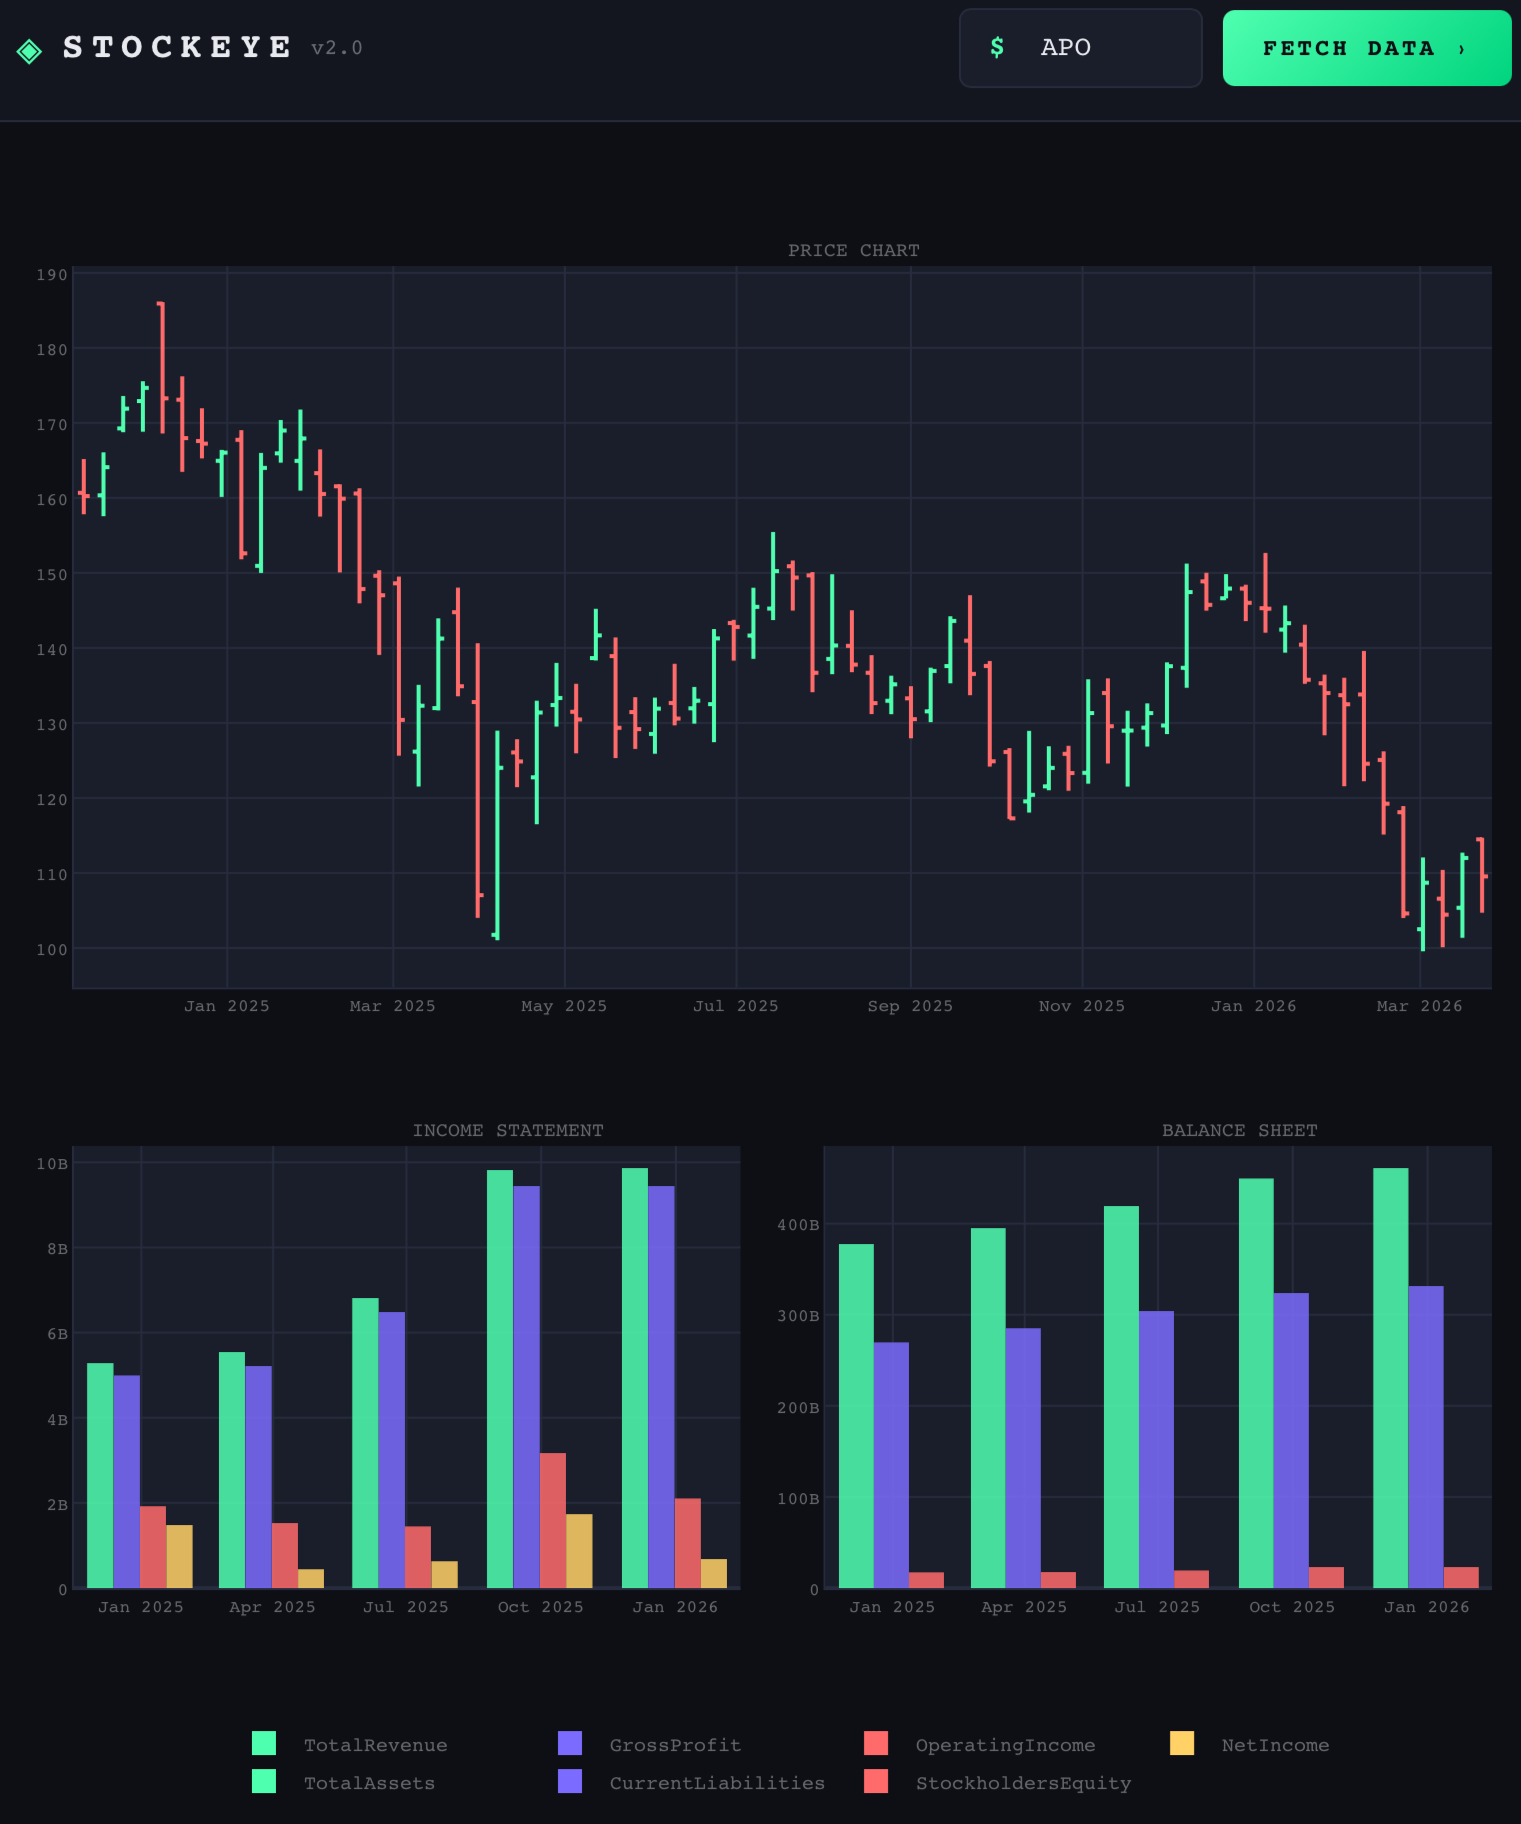
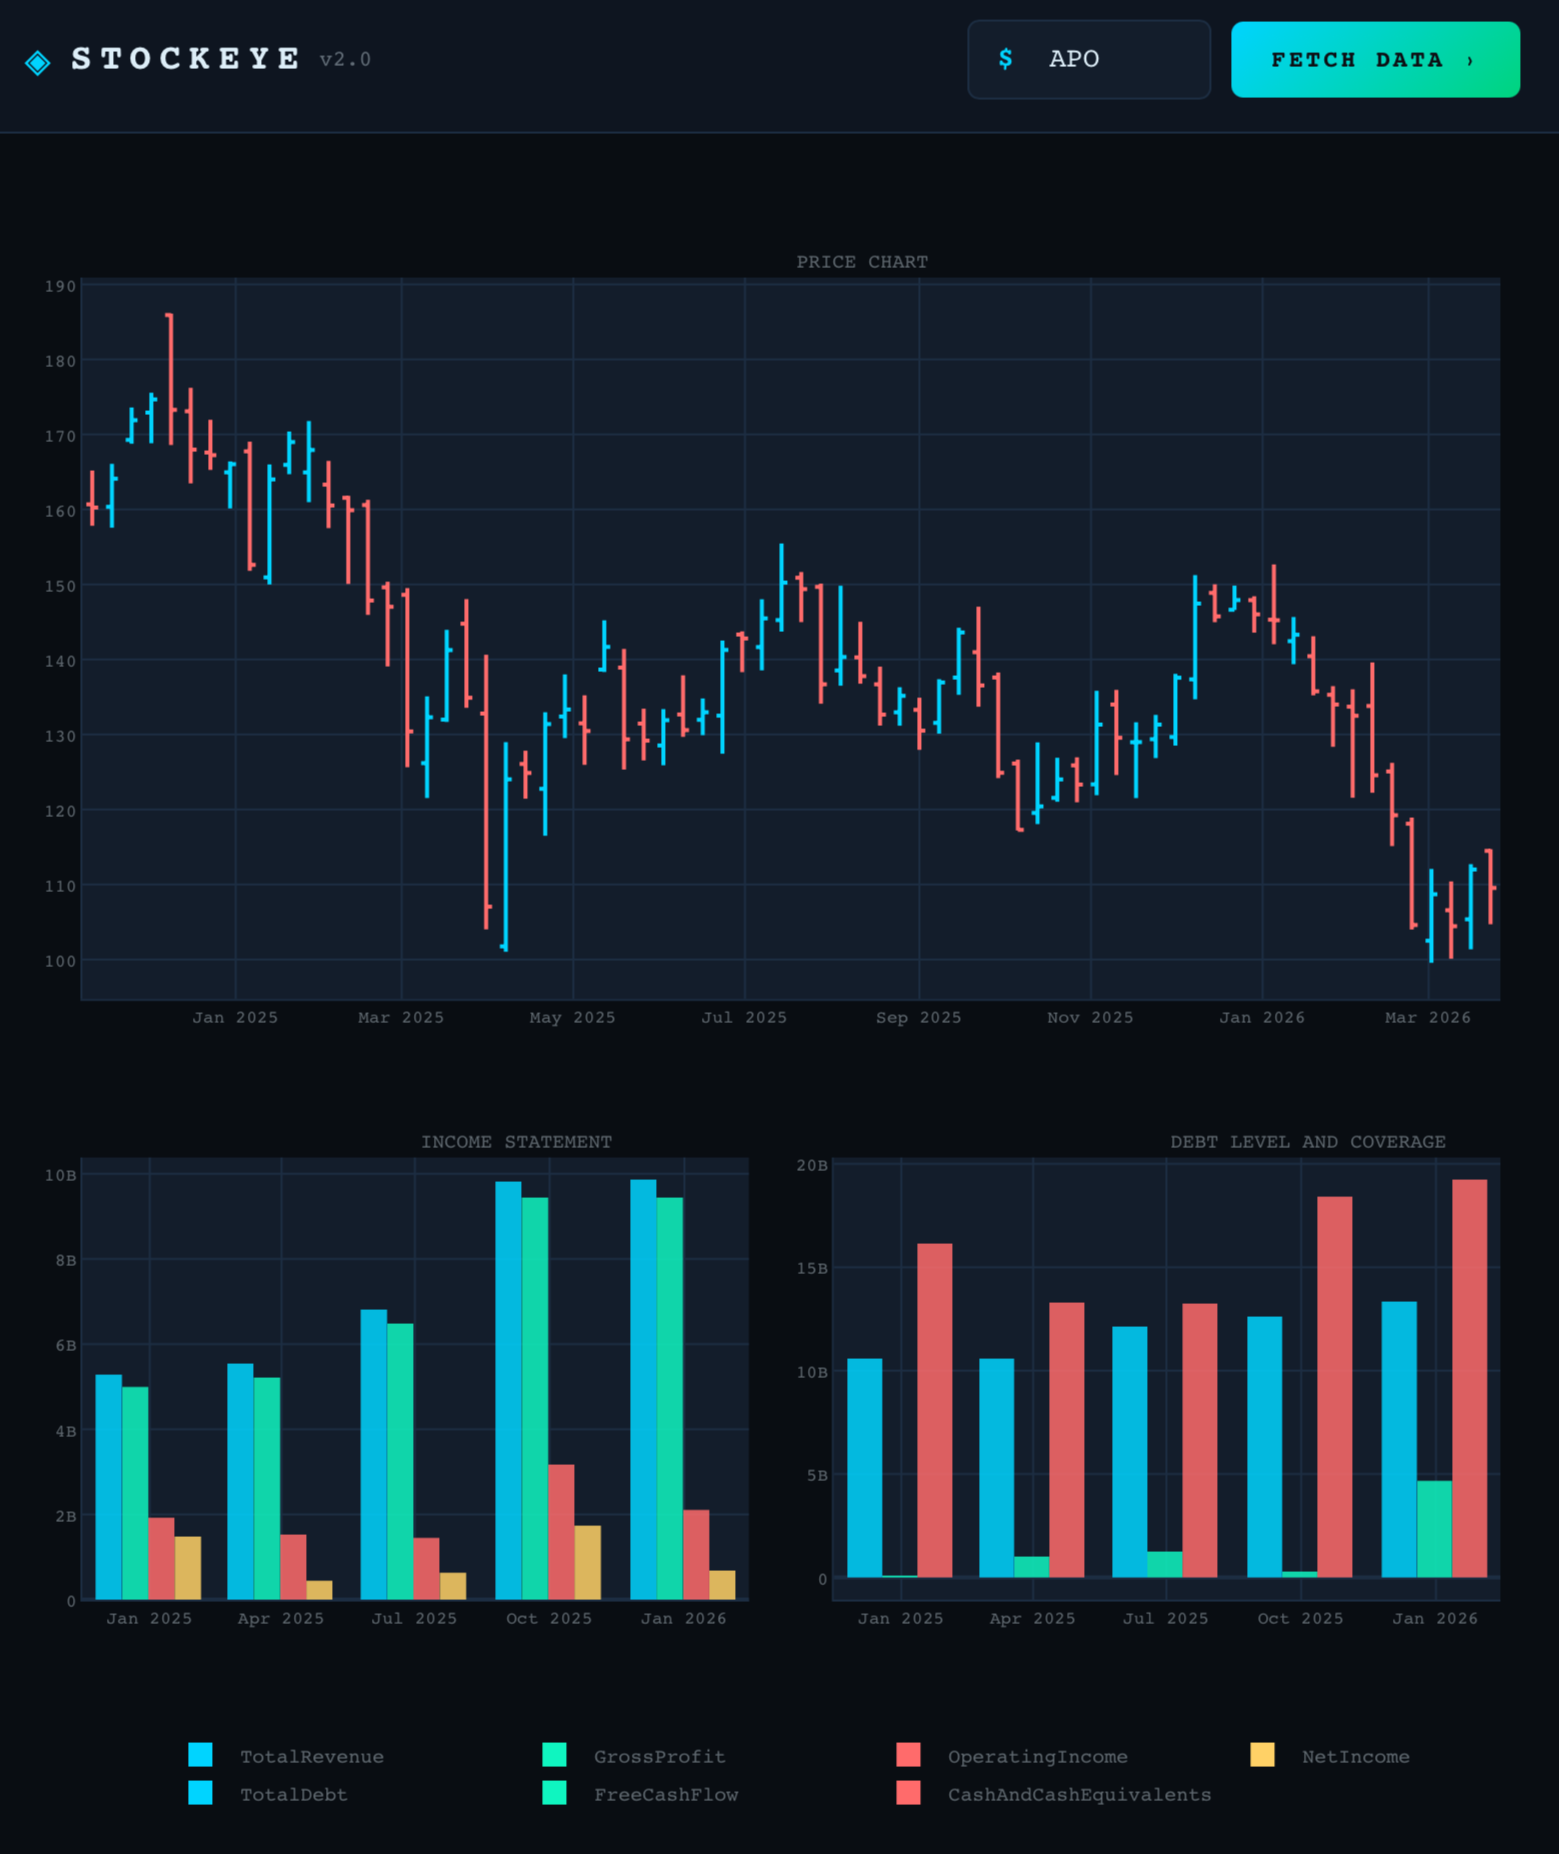
v3.0
Changed Template. Second plot now displays Debt Level And Coverage instead of Balance Sheet. Added KeyError Handling.

diff --git a/app.py b/app.py
@@ -10,14 +10,14 @@ from datetime import datetime, timedelta
 app = Dash(__name__)
 database = Database("stockdata")
 
-BG          = "#0d0f14"
-SURFACE     = "#13161e"
-SURFACE2    = "#1a1e2a"
-BORDER      = "#262b3d"
-ACCENT      = "#4fffb0"      
-ACCENT2     = "#7b6cff"        
-TEXT        = "#e8eaf0"
-TEXT_DIM    = "rgba(232,234,240,0.4)"
+BG          = "#090d12"
+SURFACE     = "#0e1520"
+SURFACE2    = "#131d2b"
+BORDER      = "#1c2d42"
+ACCENT      = "#00d4ff"      
+ACCENT2     = "#0ff5c0"        
+TEXT        = "#ddeef8"
+TEXT_DIM    = "rgba(221,238,248,0.4)"
 FONT        = "JetBrains Mono, Fira Mono, monospace"
 
 app.layout = html.Div([
@@ -31,7 +31,7 @@ app.layout = html.Div([
                 "fontSize": "18px", "fontWeight": "700",
                 "letterSpacing": "4px", "color": TEXT
             }),
-            html.Span("  v2.0", style={
+            html.Span("  v3.0", style={
                 "fontSize": "11px", "color": TEXT_DIM, "marginLeft": "6px"
             }),
         ], style={"display": "flex", "alignItems": "center"}),
@@ -124,7 +124,6 @@ app.layout = html.Div([
     "margin": "0",
 })
 
-
 @app.callback(
     Output("graph", "figure"),
     Input("submit_button", "n_clicks"),
@@ -146,7 +145,7 @@ def update_graph(n_clicks: int, symbol: str) -> go.Figure:
             [{"type": "xy", "colspan": 2}, None],
             [{"type": "xy"}, {"type": "xy"}]
         ],
-        subplot_titles=["PRICE CHART", "INCOME STATEMENT", "BALANCE SHEET"],
+        subplot_titles=["PRICE CHART", "INCOME STATEMENT", "DEBT LEVEL AND COVERAGE"],
         row_heights=[0.62, 0.38],
         horizontal_spacing=0.06,
         vertical_spacing=0.12
@@ -230,9 +229,12 @@ def update_graph(n_clicks: int, symbol: str) -> go.Figure:
         ), row=1, col=1
     )
 
-    income = ["TotalRevenue", "GrossProfit", "OperatingIncome", "NetIncome"]
-    for n, bar in enumerate(income):
-        bardata = fundamental[bar].dropna()
+    group1 = ["TotalRevenue", "GrossProfit", "OperatingIncome", "NetIncome"]
+    for n, bar in enumerate(group1):
+        try:
+            bardata = fundamental[bar].dropna()
+        except KeyError:
+            continue
         fig.add_trace(
             go.Bar(
                 x=bardata.index,
@@ -247,9 +249,12 @@ def update_graph(n_clicks: int, symbol: str) -> go.Figure:
             ), row=2, col=1
         )
 
-    balance = ["TotalAssets", "CurrentLiabilities", "StockholdersEquity"]
-    for n, bar in enumerate(balance):
-        bardata = fundamental[bar].dropna()
+    group2 = ["TotalDebt", "FreeCashFlow", "CashAndCashEquivalents"]
+    for n, bar in enumerate(group2):
+        try:
+            bardata = fundamental[bar].dropna()
+        except KeyError:
+            continue
         fig.add_trace(
             go.Bar(
                 x=bardata.index,
